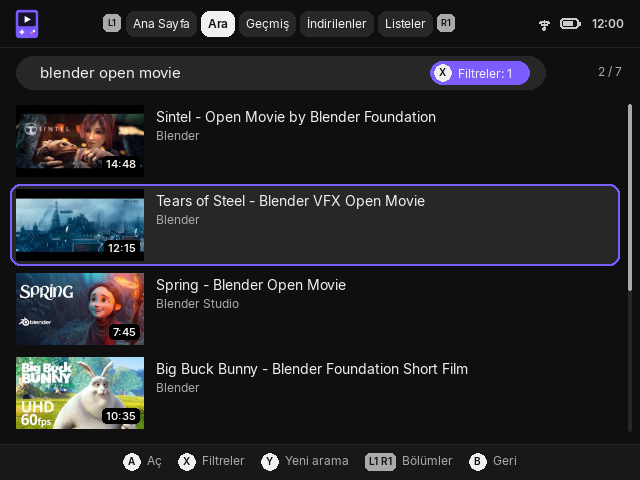
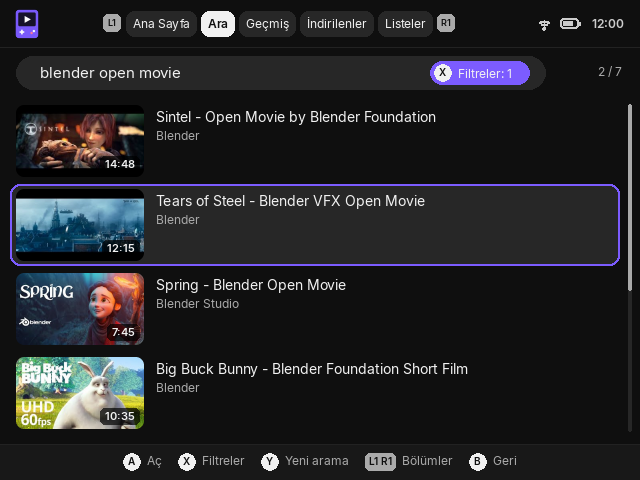
Round thumbnails, translucent badges, zooming Home card, shimmering placeholders
Keep the focus fill on the selected item so a gliding highlight never covers
rows that were already drawn (seen in a live run with fast key repeats).

diff --git a/userdata/system/pockettube/main.py b/userdata/system/pockettube/main.py
@@ -40,7 +40,9 @@ ACC = (124, 92, 255)
 LIVE_RED = (230, 33, 60)
 ERR_RED = (255, 90, 110)
 ERR_SOFT = (255, 138, 155)
+BADGE = (0, 0, 0, 175)  # translucent duration badge
 FOCUS_W = 2  # width of the accent focus ring
+CARD_ZOOM = 1.04  # focused Home card scale
 ERR_BG, ERR_FG = (58, 20, 24), (255, 218, 223)
 TINTS = [(59, 47, 74), (47, 74, 68), (74, 59, 47), (47, 61, 74), (74, 47, 59), (59, 74, 47)]
 
@@ -159,6 +161,7 @@ class App:
         except (pygame.error, FileNotFoundError):
             pass
         self.logo_cache = {}
+        self.masks, self.round_cache, self.badges = {}, {}, {}
         self.toasts = []
         self.anims, self.anim_prev, self.anim_now, self.focus_ring, self.list_off = {}, set(), set(), None, 0
         self.store = store_mod.Store()
@@ -203,13 +206,14 @@ class App:
         return cur
 
     def hl(self, rect, radius=10, fill=None, grow=0, key=None):
-        """Focus highlight: optional fill under the item now, accent ring on top at the end of the frame."""
+        """Focus highlight: optional fill under the item now, accent ring on top at the end of the frame.
+        Only the ring glides; the fill stays on the item so it never covers rows already drawn."""
+        if fill:
+            pygame.draw.rect(self.screen, fill, rect, border_radius=radius)
         # animate in content coordinates so the ring stays put while its list scrolls
         target = pygame.Rect(rect).inflate(grow, grow).move(0, round(self.list_off))
         x, y, w, h = self.anim("focus:" + (key or self.view), tuple(target))
         r = pygame.Rect(round(x), round(y - self.list_off), round(w), round(h))
-        if fill:
-            pygame.draw.rect(self.screen, fill, r.inflate(-grow, -grow), border_radius=radius)
         self.focus_ring = (r, radius + grow // 2, self.screen.get_clip())
 
     def scroller(self, key, first, count, per, row_h, top_y, bar=True):
@@ -346,19 +350,68 @@ class App:
             text(s, l, (x + kw + 6, H - 27), 12, DIM)
             x += w + 16
 
-    def draw_thumb(self, vid, x, y, w, h, idx=0):
-        img = self.thumbs.get(vid, w, h) if vid else None
+    def round_mask(self, w, h, r):
+        """White mask with anti-aliased rounded corners (drawn at 4x, scaled down); cached per size."""
+        key = (w, h, r)
+        if key not in self.masks:
+            big = pygame.Surface((w * 4, h * 4), pygame.SRCALPHA)
+            big.fill((255, 255, 255, 0))
+            pygame.draw.rect(big, (255, 255, 255, 255), big.get_rect(), border_radius=r * 4)
+            self.masks[key] = pygame.transform.smoothscale(big, (w, h))
+        return self.masks[key]
+
+    def rounded(self, surf, r, cache=None, key=None):
+        if cache is not None and key in cache:
+            return cache[key]
+        out = surf.convert_alpha()
+        out.blit(self.round_mask(*out.get_size(), r), (0, 0), special_flags=pygame.BLEND_RGBA_MULT)
+        if cache is not None:
+            cache[key] = out
+        return out
+
+    def draw_thumb(self, vid, x, y, w, h, idx=0, src=None):
+        """Thumbnail with rounded corners. src: size to load from disk when (w, h) is an animated in-between."""
+        r = 10 if w >= 300 else 8 if w >= 120 else 6
+        key = (vid, w, h)
+        img = self.round_cache.get(key)
+        if img is None and vid:
+            base = self.thumbs.get(vid, *(src or (w, h)))
+            if base:
+                if base.get_size() != (w, h):
+                    base = pygame.transform.smoothscale(base, (w, h))
+                if len(self.round_cache) > 300:
+                    self.round_cache.clear()
+                img = self.rounded(base, r, self.round_cache, key)
         if img:
             self.screen.blit(img, (x, y))
         else:
-            pygame.draw.rect(self.screen, TINTS[idx % len(TINTS)], (x, y, w, h), border_radius=8)
+            pygame.draw.rect(self.screen, TINTS[idx % len(TINTS)], (x, y, w, h), border_radius=r)
 
     def draw_badge(self, label, right, bottom, red=False):
-        f = font(11, True)
-        img = f.render(label, True, FG)
-        r = pygame.Rect(right - img.get_width() - 8, bottom - 17, img.get_width() + 8, 16)
-        pygame.draw.rect(self.screen, LIVE_RED if red else (0, 0, 0), r, border_radius=4)
-        self.screen.blit(img, (r.x + 4, r.y + 1))
+        """Duration / LIVE label over a thumbnail's corner: translucent black pill."""
+        img = font(11, True).render(clean(label), True, FG)
+        r = pygame.Rect(right - img.get_width() - 10, bottom - 17, img.get_width() + 10, 17)
+        key = (r.w, red)
+        if key not in self.badges:
+            bg = pygame.Surface(r.size, pygame.SRCALPHA)
+            pygame.draw.rect(bg, LIVE_RED + (255,) if red else BADGE, bg.get_rect(), border_radius=5)
+            self.badges[key] = bg
+        self.screen.blit(self.badges[key], r)
+        self.screen.blit(img, (r.x + 5, r.y + (r.h - img.get_height()) // 2))
+
+    def draw_shimmer(self, shapes):
+        """Loading placeholders [(color, rect, radius)] with a soft light band sweeping across them."""
+        s = self.screen
+        for color, rect, radius in shapes:
+            pygame.draw.rect(s, color, rect, border_radius=radius)
+        bx = int(time.time() % 1.6 / 1.6 * (W + 240)) - 120
+        old, lift = s.get_clip(), 0
+        for half in (70, 30):  # two nested bands make a soft-edged highlight
+            lift += 7
+            s.set_clip(pygame.Rect(bx - half, 0, half * 2, H).clip(old))
+            for color, rect, radius in shapes:
+                pygame.draw.rect(s, tuple(min(255, c + lift) for c in color), rect, border_radius=radius)
+        s.set_clip(old)
 
     def draw_video_row(self, y, v, idx, selected, status=None, progress=None):
         s = self.screen
@@ -395,13 +448,12 @@ class App:
         self.end_list()
 
     def draw_skeleton(self, top_y):
-        s = self.screen
+        shapes = []
         for i, (a, b) in enumerate([(88, 54), (76, 62), (92, 40), (70, 58)]):
             y = top_y + i * 84
-            pygame.draw.rect(s, LINE, (16, y + 5, 128, 72), border_radius=8)
-            pygame.draw.rect(s, SURF, (156, y + 10, int(4.4 * a), 14), border_radius=7)
-            pygame.draw.rect(s, LINE, (156, y + 32, int(4.4 * b), 14), border_radius=7)
-            pygame.draw.rect(s, SKEL, (156, y + 54, 130, 10), border_radius=5)
+            shapes += [(LINE, (16, y + 5, 128, 72), 8), (SURF, (156, y + 10, int(4.4 * a), 14), 7),
+                       (LINE, (156, y + 32, int(4.4 * b), 14), 7), (SKEL, (156, y + 54, 130, 10), 5)]
+        self.draw_shimmer(shapes)
 
     def draw_button(self, label, key, x, y, w, focused, primary=None, focus_key=None):
         s = self.screen
@@ -460,15 +512,22 @@ class App:
             text(s, T("home_empty"), (16, 92), 13, DIM)
         for i, v in enumerate(cards):
             x, y = 16 + i * 200, 88
-            if self.home_row == 0 and self.home_col == i:
-                self.hl((x, y, 188, 106), 8, grow=10)
-            self.draw_thumb(v["id"], x, y, 188, 106, i)
+            on = self.home_row == 0 and self.home_col == i
+            # the focused card grows a little; ring targets the final size so it doesn't chase the zoom
+            zoom = self.anim(f"zoom:{v['id']}", (CARD_ZOOM if on else 1.0,))[0]
+            full = pygame.Rect(0, 0, round(188 * CARD_ZOOM), round(106 * CARD_ZOOM))
+            card = pygame.Rect(0, 0, round(188 * zoom), round(106 * zoom))
+            full.center = card.center = (x + 94, y + 53)
+            if on:
+                self.hl(full, 8, grow=6)
+            self.draw_thumb(v["id"], card.x, card.y, card.w, card.h, i, src=full.size)
             dur = v.get("duration") or 0
-            pygame.draw.rect(s, TRACK, (x, y + 103, 188, 3))
+            bar = pygame.Rect(card.x + 6, card.bottom - 8, card.w - 12, 4)
+            pygame.draw.rect(s, TRACK, bar, border_radius=2)
             if dur:
-                pygame.draw.rect(s, ACC, (x, y + 103, int(188 * min(1, (v.get("pos") or 0) / dur)), 3))
+                pygame.draw.rect(s, ACC, (bar.x, bar.y, max(4, int(bar.w * min(1, (v.get("pos") or 0) / dur))), 4), border_radius=2)
             live = v.get("live")
-            self.draw_badge("LIVE" if live else youtube.format_duration(dur), x + 183, y + 98, red=live)
+            self.draw_badge("LIVE" if live else youtube.format_duration(dur), card.right - 6, card.bottom - 12, red=live)
             for j, line in enumerate(wrap(v["title"], font(12), 188, 2)):
                 text(s, line, (x, y + 112 + j * 15), 12, FG)
             text(s, v.get("channel", ""), (x, y + 144), 11, DIM, max_w=188)
@@ -665,8 +724,7 @@ class App:
         text(s, v.get("channel", ""), (396, y + 5), 14, FG, max_w=224)
         y += 38
         if self.details_task and not self.details_task.done:
-            for i in range(3):
-                pygame.draw.rect(s, SURF, (360, y + i * 18, 240 - i * 50, 10), border_radius=5)
+            self.draw_shimmer([(SURF, (360, y + i * 18, 240 - i * 50, 10), 5) for i in range(3)])
         elif det:
             for line in wrap(det.get("description") or T("no_description"), font(12), 260, 3):
                 text(s, line, (360, y), 12, DIM)
@@ -699,9 +757,8 @@ class App:
         s = self.screen
         text(s, T("related"), (20, 246), 13, FG, True)
         if self.related_task and not self.related_task.done:
-            for i in range(3):
-                pygame.draw.rect(s, LINE, (20, 268 + i * 58, 92, 52), border_radius=6)
-                pygame.draw.rect(s, SURF, (120, 274 + i * 58, 180 - i * 30, 10), border_radius=5)
+            self.draw_shimmer([shape for i in range(3) for shape in
+                               ((LINE, (20, 268 + i * 58, 92, 52), 6), (SURF, (120, 274 + i * 58, 180 - i * 30, 10), 5))])
             return
         if not self.related:
             text(s, T("related_none"), (20, 272), 12, DIM)
@@ -715,7 +772,7 @@ class App:
             if on:
                 self.hl((14, y - 3, 330, 58), 8, fill=SURF, key="video")
             self.draw_thumb(r["id"], 20, y, 92, 52, idx)
-            self.draw_badge(youtube.format_duration(r.get("duration")) if r.get("duration") else "LIVE", 110, y + 50, red=not r.get("duration"))
+            self.draw_badge(youtube.format_duration(r.get("duration")) if r.get("duration") else "LIVE", 109, y + 49, red=not r.get("duration"))
             for j, line in enumerate(wrap(r.get("title", ""), font(12), 216, 2)):
                 text(s, line, (120, y + 2 + j * 15), 12, FG)
             text(s, r.get("channel", ""), (120, y + 34), 11, DIM, max_w=216)
@@ -1229,7 +1286,7 @@ class App:
             if items:
                 self.draw_thumb(items[0]["id"], 18, y + 7, 78, 44, idx)
             else:
-                pygame.draw.rect(s, TINTS[idx % len(TINTS)], (18, y + 7, 78, 44), border_radius=8)
+                self.draw_thumb(None, 18, y + 7, 78, 44, idx)
             self.draw_badge(str(len(items)), 92, y + 47)
             text(s, self.playlist_name(p), (110, y + 10), 15, FG, max_w=W - 150)
             text(s, self.n_videos(len(items)), (110, y + 32), 12, DIM)

diff --git a/CHANGELOG.md b/CHANGELOG.md
@@ -5,6 +5,8 @@
 - Turkish interface and a Turkish Q on-screen keyboard (the keyboard key cycles EN → RU → TR).
 - Interface font is now Inter (bundled in `assets/fonts`); DejaVu Sans stays as a fallback.
 - One focus style everywhere: a purple ring that glides to the selected item; lists scroll smoothly under it.
+- Thumbnails have anti-aliased rounded corners; duration badges are translucent; the focused Home card grows slightly and its progress bar sits inside the thumbnail.
+- Loading placeholders shimmer.
 
 ## 1.0
 
